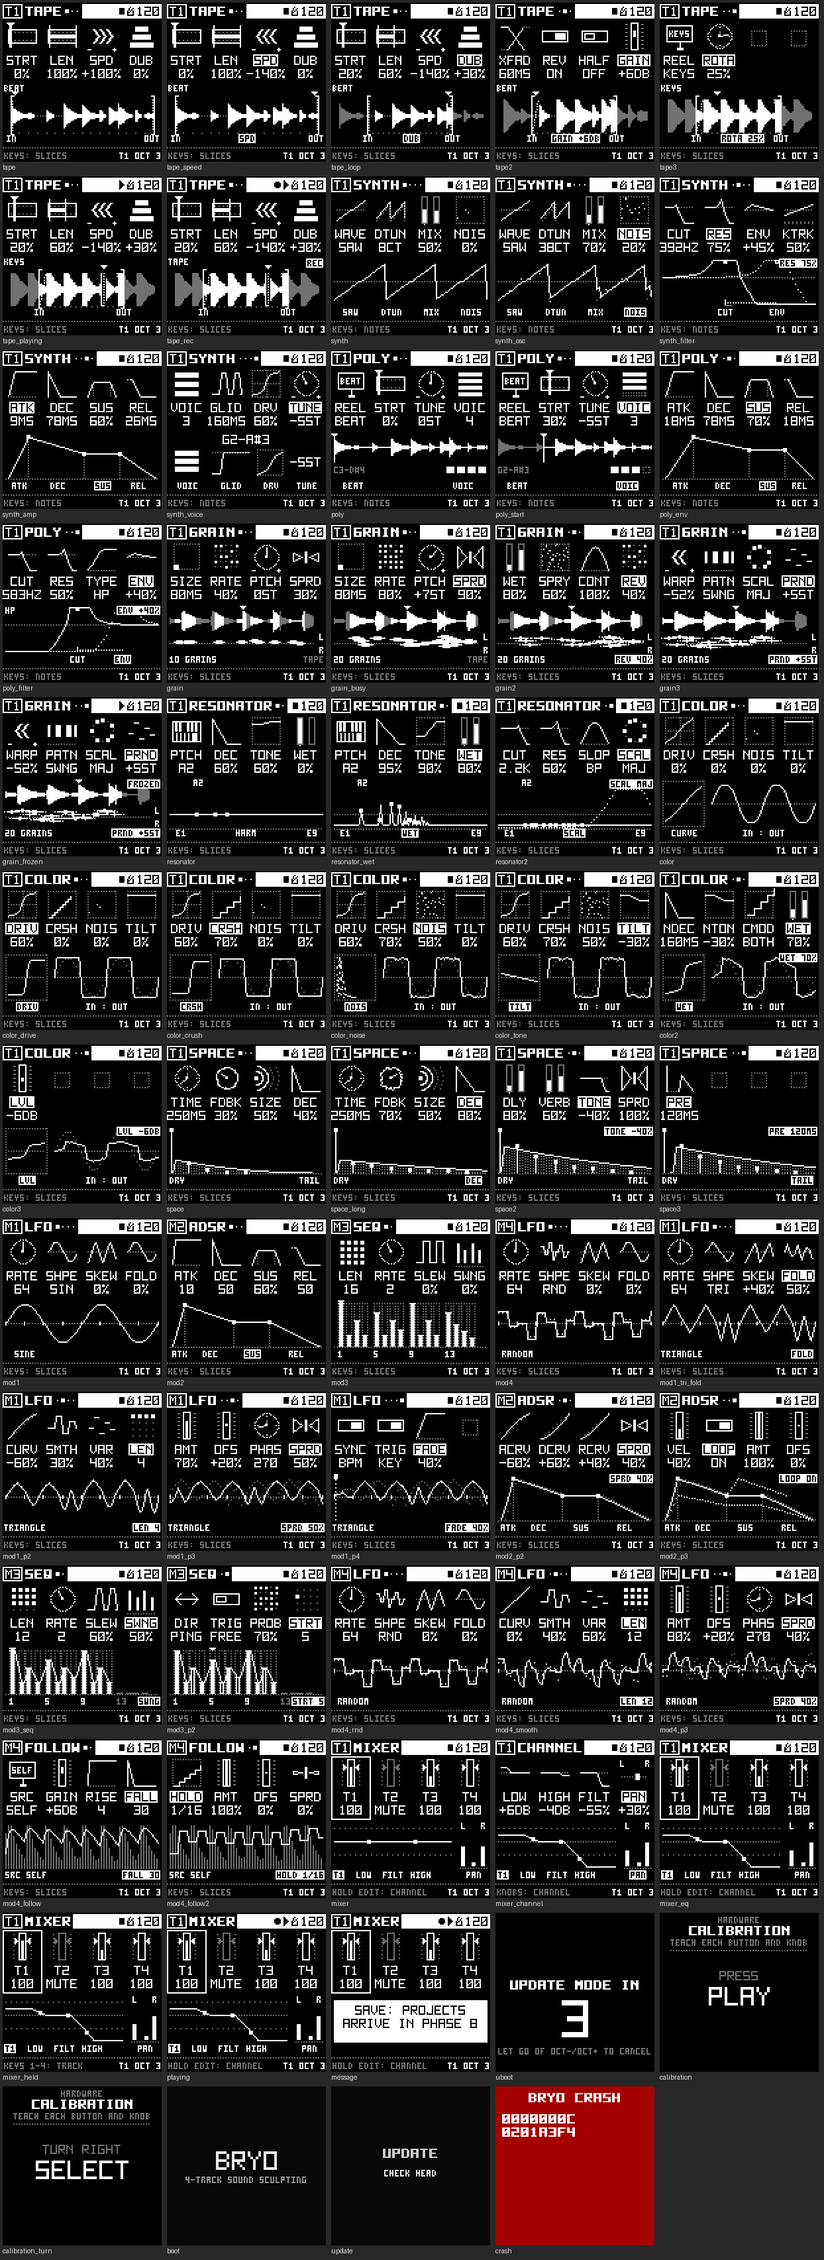
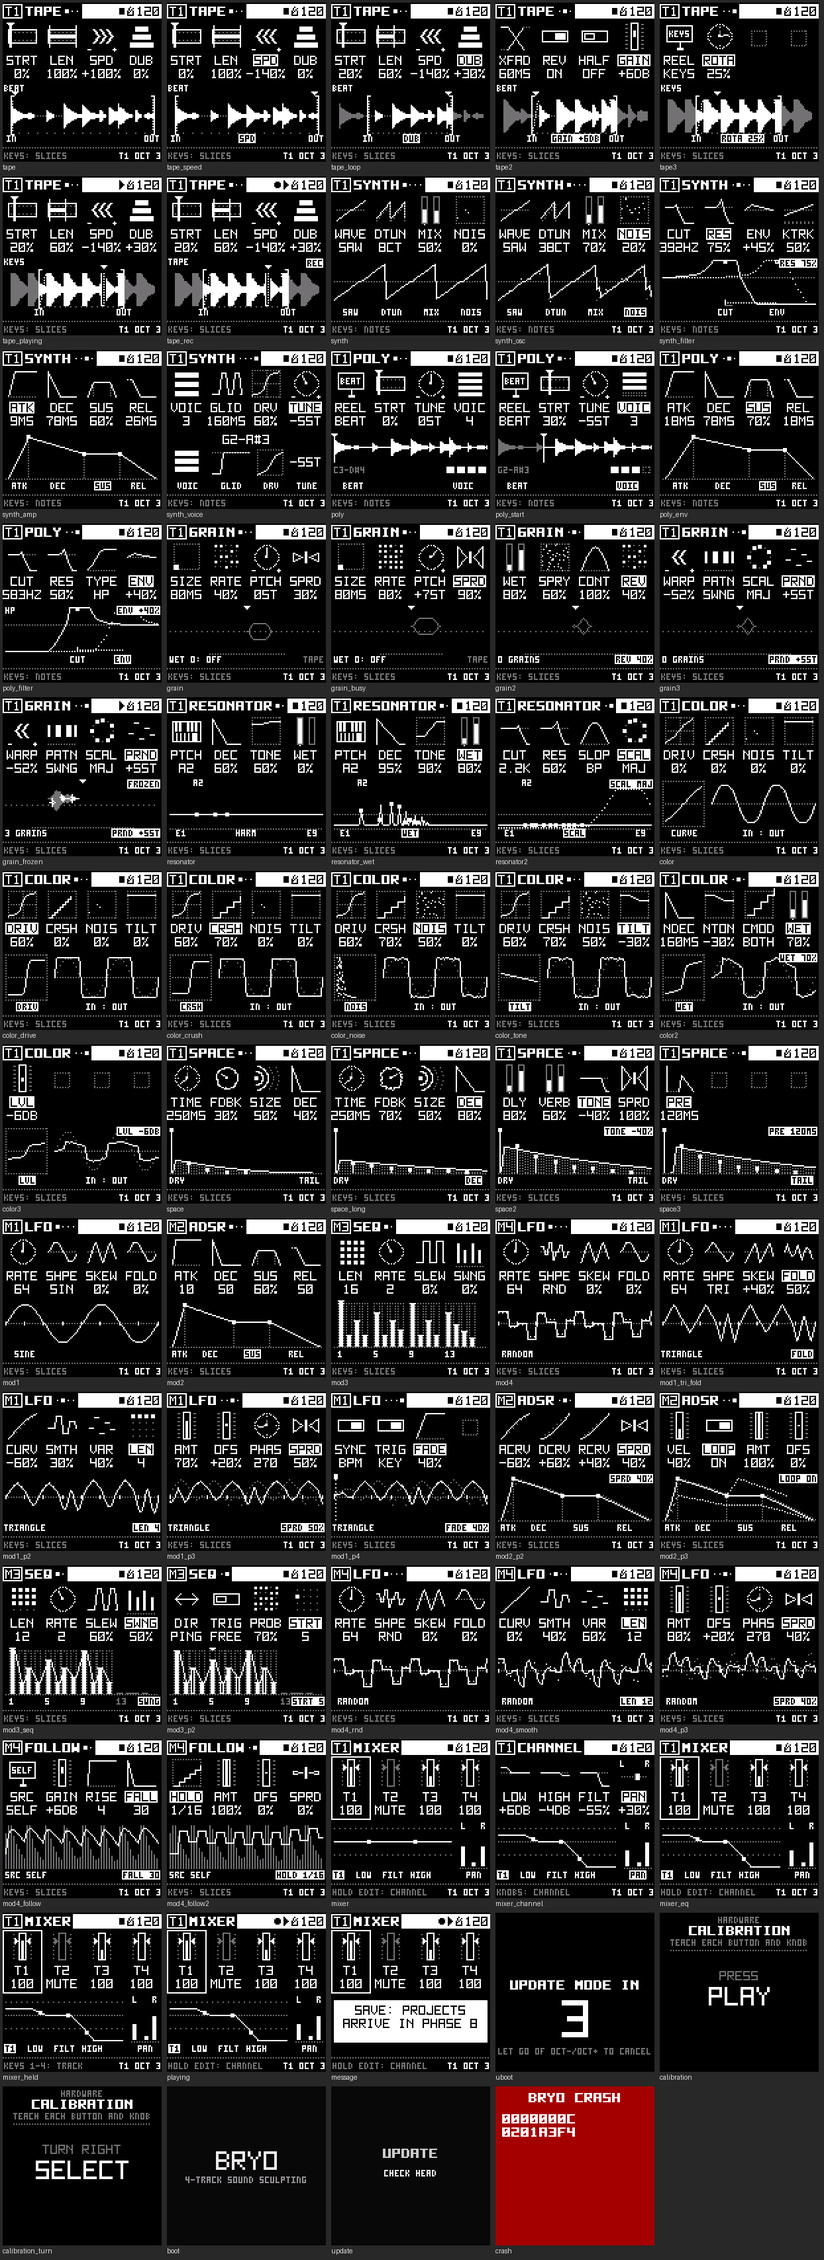
Bryo: GRAIN draws its grains, not the sample; 8 grains a track
The GRAIN picture zooms to the stretch around the cursor that grains can
reach (SPRY plus a few grains' length) instead of the whole loop window.
A grain shows only while it sounds: across is the tape it reads (slowed
grains narrower, sped-up ones wider), up and down its pitch, its height
the window swelled by the sample's level, with an arrow playhead its way
(REV right to left). With nothing sounding, a dim grain from the knobs.

The cap goes from 16 to 8 grains a track: 9.6 KB of pool instead of
19.1, and 2,820 instructions a sample at the cap instead of 4,755.

Claude-Session: https://claude.ai/code/session_011E3mkWDTWqtPtt4Lk7Lgg8

diff --git a/bryo/firmware/src/ui_viz.c b/bryo/firmware/src/ui_viz.c
@@ -11,9 +11,8 @@
  *   POLY       per page: the sound with STRT and the keys' range, the envelope, the filter with its TYPE
  *   TAPE       the whole tape's sound, large, lit inside the loop window (STRT, LEN, bracketed) with its 16 slices
  *              ticked under it; the playhead over it (stopped: where playing starts, moved by ROTA)
- *   GRAIN      the sound in TAPE's loop window, lit where grains read it (SIZE, scaled by PITCH), and one solid
- *              block per grain (RATE, placed by PATN) in a stereo lane under it (SPRD, up = left, down = right);
- *              the cursor where grains start over it, FROZEN while the 0 key holds it
+ *   GRAIN      the grains as they sound: where each reads (across), its pitch (up), its stretch of the sample
+ *              under its window with the playhead running its way; the cursor and SPRY's reach; FROZEN
  *   RESONATOR  the response over 8 octaves: peaks on PTCH's partials (harmonics, or a scale's chord tones; a node on
  *              each, the root's filled and named), as sharp as DEC makes them, kept up top by TONE, shaped by the
  *              filter before them (dotted: CUT RES SLOP), blended with the dotted dry line by WET
@@ -160,86 +159,123 @@ static void viz_tape(const int16_t *v, uint32_t f)
 }
 
 /* ------------------------------------------------------------- GRAIN --- */
+/* d, a distance along a loop of ll samples, the short way round */
+static int32_t gr_wrap(int32_t d, int32_t ll)
+{
+    while (d > ll / 2)
+        d -= ll;
+    while (d < -ll / 2)
+        d += ll;
+    return d;
+}
+
 static void viz_grain(const int16_t *v, uint32_t f)
 {
-    /* The view spans TAPE's loop window (START, LEN). RATE 0..100: 1..25 grains, placed along the loop by PATN (EVEN
-     * spaced, SWNG with the off-beats late, CLST in clusters of four, RND scattered). Each grain reads SIZE ms of the
-     * sample, times 2^(PTCH/12) (pitched up, it reads more; PRND varies that per grain): that slice of the waveform
-     * is lit, and it is the width of its block. SPRD scatters the blocks across the stereo lane under the waveform
-     * (up = left). Solid blocks: the grains as the engine schedules them, without the window shape. */
-    const int16_t *tv = tp[sys.sel].dev[DEV_SRC];
-    int32_t n = 1 + v[1] * 24 / 100, i, x, g, gw = DW - 6;            /* (L and R at the right) */
-    int32_t start = tv[0] * 10, len = tv[1] * 10, loop_ms = len * tape_ms(sys.sel) / 1000, oct = 1000, span;
-    int32_t gx[25], gy[25], mid = 11, amp = 10, lane = 28, jit = v[5] * 6 / 100, taper;
+    /* A field of the grains as they sound, not the whole sample: the stretch of TAPE's loop window around the cursor
+     * (in the middle) that grains can reach, SPRY's scatter plus a few grains' length. Across: where a grain reads
+     * (SPRY's range dotted under the field); up and down: its pitch (PTCH and its
+     * PRND, the tape's own in the middle, +-2 octaves at the edges). A grain is drawn while it sounds: the stretch of
+     * the sample it reads (wider when it reads faster, narrower slowed down), its height its window (CONT) swelled by
+     * the sample's level there, played solid and still to play dim, its playhead an arrow the way it runs (REV: right
+     * to left). Nothing sounding (stopped, or WET 0): one grain's outline at the cursor, from the knobs. */
+    grain_trk_t *G = &grain[sys.sel];
+    tape_view_t tv;
+    int32_t ls, ll, i, k, x, cx = 60, yc0 = 19, n = 0, sp, reach, gspan, fw, cur;
     char b[16];
-    for (i = 0; i < v[2]; i++) oct = oct * 1059 / 1000;               /* 2^(st/12), 1/1000 */
-    for (i = 0; i > v[2]; i--) oct = oct * 1000 / 1059;
-    span = clamp(v[0] * oct / 1000 * gw / (loop_ms > 0 ? loop_ms : 1), 1, gw / 2);
-    vz_seed = 12345u;
-    for (g = 0; g < n; g++) {
-        int32_t room = gw - span, slot = room / n, at;
-        switch (v[9]) {                                               /* PATN */
-        case 0: at = g * slot; break;                                  /* EVEN */
-        case 1: at = g * slot + (g & 1) * slot / 2; break;              /* SWNG: the off-beats half a step late */
-        case 2: at = (g / 4) * slot * 4 + (g % 4) * slot / 3; break;    /* CLST: fours, close together */
-        default: at = (int32_t)(vz_rand() % (uint32_t)room); break;    /* RND */
-        }
-        gx[g] = DX0 + clamp(at, 0, room - 1);
-        gy[g] = ((int32_t)(vz_rand() % 2001u) - 1000) * v[3] / 100;    /* -1000 (L) .. 1000 (R) */
+    tape_view(sys.sel, &tv);
+    if (!tv.len) {
+        px_text_c(0, 120, 16, PXF_3, "NOTHING ON THE TAPE", px_dim);
+        return;
     }
-    for (x = DX0; x < DX0 + gw; x++) {                                 /* the sample: dim, lit where a grain reads */
-        int32_t a = tape_peak_at(sys.sel, start + (x - DX0) * len / gw) * amp / 1000, lit = 0;
-        for (g = 0; g < n && !lit; g++)
-            lit = x >= gx[g] && x < gx[g] + span;
-        px_box(x, mid - a, 1, 2 * a + 1, lit ? px_ink : px_dim);
+    tape_window(sys.sel, tv.len, &ls, &ll);
+    cur = G->cur >> 12;
+    reach = ll * v[5] / 200;                                           /* SPRY: tape samples either way */
+    gspan = (int32_t)((uint32_t)gr_rate(v[2] * 16) * ((uint32_t)v[0] * 441u / 10u) >> 12);   /* a grain, read */
+    fw = clamp(2 * reach + 3 * gspan > 4 * gspan ? 2 * reach + 3 * gspan : 4 * gspan, 256, ll);   /* the field */
+#define GX(s) (cx + gr_wrap((s) - cur, ll) * DW / fw)                  /* a tape sample's column (cursor: 60) */
+#define GY(st16) (yc0 - (st16) * 14 / (24 * 16))                      /* a pitch's row */
+    sp = reach * DW / fw;                                              /* SPRY's reach, dots */
+    px_line(clamp(cx - sp, DX0, DX1), 36, clamp(cx + sp, DX0, DX1), 36, px_dim, 2);   /* where grains may start */
+    px_line(DX0, yc0, DX1, yc0, px_dim, 4);                            /* the tape's own pitch */
+    for (k = 0; k < (int32_t)GR_CAP; k++) {                            /* the grains sounding */
+        const grain_t *g = &G->g[k];
+        int32_t rate, span, p0, a0, b0, xa, xb, ph, yc, fr;
+        if (!((G->used >> k) & 1u) || !g->len)
+            continue;
+        n++;
+        rate = g->inc < 0 ? -g->inc : g->inc;
+        span = (int32_t)((uint32_t)rate * g->len >> 12);
+        p0 = (g->pos >> 12) - ((g->inc * (int32_t)(g->len - g->left)) >> 12);   /* (fits: |inc| < 2^15, len < 2^15) */
+        a0 = g->rev ? p0 - span : p0;
+        b0 = a0 + span;
+        xa = GX(a0);
+        xb = GX(b0);
+        if (xb <= xa)
+            xb = xa + 1;
+        ph = GX(g->pos >> 12);
+        yc = clamp(GY(g->st16), 5, 33);
+        fr = (int32_t)(g->fade * 1000u / g->len);                     /* each ramp, of the grain (1/1000) */
+        for (x = clamp(xa, DX0, DX1); x <= clamp(xb, DX0, DX1); x++) {
+            int32_t at = (x - xa) * 1000 / (xb - xa), e = 32767, s = a0 + (x - xa) * span / (xb - xa), h;
+            uint32_t blk = (uint32_t)clamp(s, 0, (int32_t)tv.len - 1) / TAPE_BLK;
+            int on = g->rev ? x >= ph : x <= ph;                       /* played */
+            if (at < fr)
+                e = GR_RAMP[at * 128 / (fr ? fr : 1)];
+            else if (1000 - at < fr)
+                e = GR_RAMP[(1000 - at) * 128 / (fr ? fr : 1)];
+            h = (2 + clamp((int32_t)tv.peak[blk] * 3, 0, 255) * 5 / 255) * e / 32767;   /* (quiet stretches: still a shape) */
+            px_box(x, yc - h, 1, 2 * h + 1, on ? px_ink : px_dim);
+        }
+        if (ph >= DX0 && ph <= DX1) {                                  /* the playhead, an arrow its way */
+            int32_t d = g->rev ? -1 : 1;
+            px_box(ph, yc - 3, 1, 7, px_ink);
+            px_dot(ph + d, yc - 1, px_ink);
+            px_dot(ph + d, yc + 1, px_ink);
+            px_dot(ph + 2 * d, yc, px_ink);
+        }
     }
-    px_line(DX0, lane, DX0 + gw, lane, px_dim, 2);                     /* the stereo lane */
-    px_text(DX1 - 2, lane - 7, PXF_3, "L", px_ink);
-    px_text(DX1 - 2, lane + 3, PXF_3, "R", px_ink);
-    /* each grain: 3 rows, its top and bottom rows cut in from the ends as CONT smooths it (square at 0);
-     * hollow when it plays backwards (REV: that share of them); SPRY as dotted whiskers, where it may land instead */
-    taper = span * v[6] / 250;
-    for (g = 0; g < n; g++) {
-        int32_t yy = lane - 1 + gy[g] * 5 / 1000, back = (g * 37 + 11) % 100 < v[7], span0 = span;
-        if (v[11]) {                                                   /* PRND: each grain's pitch, so its read, varies */
-            int32_t st = (int32_t)((g * 53u + 7u) % (uint32_t)(2 * v[11] + 1)) - v[11];
-            span = clamp(span + span * st / 24, 1, gw / 2);
+    if (!n) {                                                          /* nothing sounding: a grain from the knobs */
+        int32_t span = gspan, xa = cx, xb = GX(cur + span), yc = clamp(GY(v[2] * 16), 5, 33), fr = v[6] * 5, pyu = yc, pyd = yc;
+        if (xb <= xa + 2)
+            xb = xa + 3;
+        for (x = xa; x <= xb && x <= DX1; x++) {
+            int32_t at = (x - xa) * 1000 / (xb - xa), e = 32767, h;
+            if (at < fr)
+                e = GR_RAMP[at * 128 / (fr ? fr : 1)];
+            else if (1000 - at < fr)
+                e = GR_RAMP[(1000 - at) * 128 / (fr ? fr : 1)];
+            h = 6 * e / 32767;
+            if (x > xa) {
+                px_line(x - 1, pyu, x, yc - h, px_dim, 1);
+                px_line(x - 1, pyd, x, yc + h, px_dim, 1);
+            }
+            pyu = yc - h;
+            pyd = yc + h;
         }
-        if (back) {
-            px_line(gx[g], yy, gx[g] + span - 1, yy, px_ink, 1);
-            px_line(gx[g] + taper, yy - 1, gx[g] + span - 1 - taper, yy - 1, px_ink, 1);
-            px_line(gx[g] + taper, yy + 1, gx[g] + span - 1 - taper, yy + 1, px_ink, 1);
-            px_dot(gx[g], yy, px_bg);                                  /* (an arrow's notch: it runs right to left) */
-        } else {
-            px_box(gx[g], yy, span, 1, px_ink);
-            px_box(gx[g] + taper, yy - 1, span - 2 * taper, 1, px_ink);
-            px_box(gx[g] + taper, yy + 1, span - 2 * taper, 1, px_ink);
+        if (v[7]) {                                                    /* REV: some run backwards */
+            px_dot(xa - 1, yc - 1, px_dim);
+            px_dot(xa - 1, yc + 1, px_dim);
+            px_dot(xa - 2, yc, px_dim);
         }
-        if (jit) {
-            px_line(gx[g] - jit, yy, gx[g] - 1, yy, px_ink, 2);
-            px_line(gx[g] + span, yy, gx[g] + span - 1 + jit, yy, px_ink, 2);
-        }
-        span = span0;
     }
-    {   /* the cursor, where grains start: a triangle over the sound; FROZEN while the 0 key holds it */
-        tape_view_t tvw;
-        tape_view(sys.sel, &tvw);
-        if (tvw.len && len) {
-            int32_t cm = (int32_t)((uint32_t)(grain[sys.sel].cur >> 12) * 1000u / tvw.len), cx = DX0 + (cm - start) * gw / len;
-            if (cx >= DX0 && cx < DX0 + gw)
-                for (i = 0; i < 3; i++)
-                    px_box(cx - 2 + i, i, 5 - 2 * i, 1, px_ink);
-        }
-        if (grain_frozen)
-            px_tag(118 - px_text_w(PXF_3, "FROZEN") - 1, 0, PXF_3, "FROZEN", px_ink, px_bg);
+    for (i = 0; i < 3; i++)                                            /* the cursor, where grains start */
+        if (cx >= DX0 && cx <= DX1)
+            px_box(cx - 2 + i, i, 5 - 2 * i, 1, px_ink);
+    if (grain_frozen)
+        px_tag(118 - px_text_w(PXF_3, "FROZEN") - 1, 0, PXF_3, "FROZEN", px_ink, px_bg);
+#undef GX
+#undef GY
+    if (!v[4])
+        str_cpy(b, "WET 0: OFF", sizeof b);
+    else {
+        fmt_int(b, n);
+        str_cpy(b + str_len(b), n == 1 ? " GRAIN" : " GRAINS", 8);
     }
-    fmt_int(b, n);
-    str_cpy(b + str_len(b), " GRAINS", 8);
-    if (f == 1u)
+    if (f == 1u || f == 4u)
         px_tag(1, DLBL - 1, PXF_3, b, px_ink, px_bg);
     else
         px_text(2, DLBL, PXF_3, b, px_ink);
-    if (f >= 4u && f < 12u)
+    if (f >= 4u && f < 12u && f != 4u)
         vz_ktag(118, DLBL - 1, &DEV_P[DEV_GRAIN][f], v[f]);
     else
         px_text(118 - px_text_w(PXF_3, tape_name(sys.sel)), DLBL, PXF_3, tape_name(sys.sel), px_dim);   /* its source */
@@ -1040,8 +1076,14 @@ static uint32_t viz_sig(void)
     if (ui.kind == FOCUS_SLOT && tp[sys.sel].engine[ui.slot] == ME_FOLLOW)
         for (t = 0; t < NTRK; t++)
             h = (h ^ tape_ver[t]) * 16777619u;
-    if (ui.kind == FOCUS_DEV && ui.dev == DEV_GRAIN)                   /* GRAIN's cursor (to the dot), FROZEN */
-        h = (h ^ (uint32_t)((grain[sys.sel].cur >> 12) / 256 * 2 + grain_frozen)) * 16777619u;
+    if (ui.kind == FOCUS_DEV && ui.dev == DEV_GRAIN) {                 /* GRAIN: its cursor, FROZEN, the grains */
+        const grain_trk_t *G = &grain[sys.sel];
+        h = (h ^ (uint32_t)((G->cur >> 12) / 256 * 2 + grain_frozen)) * 16777619u;
+        for (k = 0; k < GR_CAP; k++)
+            if ((G->used >> k) & 1u)
+                h = (h ^ (uint32_t)(G->g[k].pos >> 18) ^ k << 24) * 16777619u;
+        h = (h ^ G->used) * 16777619u;
+    }
     if (ui.kind == FOCUS_DEV && ui.dev == DEV_GRAIN)                   /* GRAIN draws TAPE's loop window too */
         h = (h ^ (uint32_t)(tp[sys.sel].dev[DEV_SRC][0] << 8 | tp[sys.sel].dev[DEV_SRC][1])) * 16777619u;
     return h + (ui.kind == FOCUS_SLOT ? tp[sys.sel].engine[ui.slot] * 65537u : 0u);

diff --git a/bryo/firmware/src/grain.c b/bryo/firmware/src/grain.c
@@ -23,11 +23,11 @@
  * reverse grain refills its window backwards (up to 256 decodes per 64 samples). A grain starting past the tape's end
  * reads silence.
  *
- * Load: at most GR_CAP grains sound per track; a grain due while all of them sound is skipped. The audio ISR's
+ * Load: at most GR_CAP (8) grains sound per track; a grain due while all of them sound is skipped. The audio ISR's
  * shedding (chain_shed) lowers that cap for every track, two at a time down to 4, and it comes back one a second.
  * Audio ISR only; the main loop writes the knobs. */
 
-#define GR_CAP 16u                   /* grains sounding at once per track, at most */
+#define GR_CAP 8u                    /* grains sounding at once per track, at most */
 #define GR_WIN 128u                  /* a grain's decoded window, tape samples (a reverse refill re-decodes from its
                                       * block's start: the wider the window, the rarer) */
 
@@ -169,6 +169,12 @@ static int32_t gr_pitch(grain_trk_t *G, const int16_t *p)
     return best;
 }
 
+/* a grain's step for pitch st16 (1/16 semitone), Q12 tape samples per output sample: 2048 at the tape's own pitch */
+static int32_t gr_rate(int32_t st16)
+{
+    return (int32_t)(pitch_inc((uint32_t)clamp(60 * 16 + st16, 0, 2047)) / (pitch_inc(60u * 16u) >> 11));
+}
+
 /* the gap before the next grain, output samples: RATE 0..100 -> 1..80 grains a second, in PATN's rhythm */
 static int32_t gr_gap(grain_trk_t *G, const int16_t *p)
 {
@@ -196,7 +202,7 @@ static void gr_start(uint32_t t, grain_trk_t *G, const int16_t *p, const tape_vi
     at = (G->cur >> 12) + (sp ? (int32_t)(gr_rnd(G) % (uint32_t)(2 * sp + 1)) - sp : 0);
     at = ls + ((at - ls) % ll + ll) % ll;
     g->st16 = (int16_t)gr_pitch(G, p);
-    rate = (int32_t)(pitch_inc((uint32_t)clamp(60 * 16 + g->st16, 0, 2047)) / (pitch_inc(60u * 16u) >> 11));
+    rate = gr_rate(g->st16);
     g->rev = (uint8_t)((int32_t)(gr_rnd(G) % 100u) < p[7]);
     g->len = (uint32_t)p[0] * 441u / 10u;              /* SIZE ms -> output samples */
     g->fade = (uint32_t)p[6] * g->len / 200u;          /* CONT: the ramps, up to half the grain each */

diff --git a/bryo/tests/bryo_host.c b/bryo/tests/bryo_host.c
@@ -1722,17 +1722,17 @@ static void test_grain(void)
         maxc = grain_count(0) > maxc ? grain_count(0) : maxc;
     }
     render(NB, s);
-    check("RATE 100, SIZE 500: grains up to the cap of 16, never more, under full scale",
+    check("RATE 100, SIZE 500: grains up to the cap of 8, never more, under full scale",
           maxc == GR_CAP && peak_of(s, NB * CTL) <= 32767);
     grain_shed();
     for (i = 0, maxc = 0; i < 1300u; i++) {
         render(1, 0);
         maxc = grain_count(0) > maxc ? grain_count(0) : maxc;
     }
-    check("shedding lowers the cap (16 -> 14): the grains follow it down", grain_cap == 14u && maxc <= 16u &&
-          grain_count(0) <= 14u);
+    check("shedding lowers the cap (8 -> 6): the grains follow it down", grain_cap == 6u && maxc <= 8u &&
+          grain_count(0) <= 6u);
     render(200, 0);
-    check("..and a second without shedding gives one back", grain_cap == 15u);
+    check("..and a second without shedding gives one back", grain_cap == 7u);
     grain_cap = GR_CAP;
     p[1] = 40;
     p[0] = 80;

diff --git a/bryo/docs/bryo-architecture.md b/bryo/docs/bryo-architecture.md
@@ -151,7 +151,7 @@ Why:
 | SPACE delay | 65,536 | 4 tracks × 8,192 samples × 2 B (0.37 s at 22.05 kHz, or 0.74 s at half speed) |
 | SPACE reverb | 40,000 | 4 small reverbs, Felucca's ROOM structure run at 22.05 kHz |
 | Screen canvas | 5,460 (main RAM) | 2 bits a dot (1.6 KB) and two 4-row line buffers (3.8 KB); see "The screen as dots" |
-| GRAIN | 19,552 | 4 tracks × 16 grains × 305 B (a 128-sample decoded window each; see "GRAIN, as built") |
+| GRAIN | 9,824 | 4 tracks × 8 grains × 305 B (a 128-sample decoded window each; see "GRAIN, as built") |
 | USB audio in | 16,384 | ring buffer: 4,096 stereo frames × 4 B (93 ms) for drift and jitter |
 | SYNTH | 576 | 4 tracks × 3 voices of oscillator and filter state (.bss) |
 | POLY | 8,288 | 4 tracks × 4 voices × a 256-sample block reader (pool), plus 448 B of voice state (.bss) |
@@ -180,7 +180,7 @@ with its mixes. My target for all four tracks, everything on, is **at most 2,000
 | Stage, per track | Estimate | Notes |
 | --- | ---: | --- |
 | TAPE read | 20 | ADPCM decode at 22.05 kHz, linear interpolation to 44.1 kHz |
-| GRAIN | 240 | 16 sounding grains × about 15 (window table, interpolation, pan) |
+| GRAIN | 240 | 8 sounding grains × about 30 (decoding, window ramp, interpolation, pan; see "GRAIN, as built") |
 | RESONATOR | 60 | 4 strings |
 | COLOR | 30 | drive table, crush, follower plus noise |
 | SPACE | 80 | delay plus reverb at 22.05 kHz |
@@ -684,7 +684,7 @@ mono (the two sides' average).
 **Reading without a copy.** Each grain decodes the ADPCM itself into a 128-sample window, starting from the stored
 decoder state of the window's block. A forward grain slides its window and decodes each tape sample once. A
 backward grain re-decodes from its block's start at each refill, which is why the window is 128 samples rather
-than 64: half as many refills. 64 grains in all take 19.1 KB of the pool (it now holds 241.6 KB of 336).
+than 64: half as many refills. 32 grains in all take 9.6 KB of the pool (it now holds about 231.8 KB of 336).
 
 **Cost, measured** (instructions per output sample for the whole chain, four tracks, the host's 64-bit build under
 callgrind; a ballpark for the FM-1, not its cycles):
@@ -693,17 +693,32 @@ callgrind; a ballpark for the FM-1, not its cycles):
 | --- | ---: |
 | GRAIN off (tapes only) | 823 |
 | WET 100 at the defaults (about 2 grains sounding a track) | 1,149 |
-| WET 100, RATE 100, SIZE 500: 16 grains a track, the cap | 4,755 |
-| the same, every grain backwards | 6,099 |
+| WET 100, RATE 100, SIZE 500: 8 grains a track, the cap | 2,820 |
+| the same, every grain backwards | 3,521 |
 
-The first version cost 9,760 at the cap. A forward grain re-decoded its whole block every time it left its window,
+The first version cost 9,760 with a cap of 16. A forward grain re-decoded its whole block every time it left its window,
 and the window's shape was a table read per sample. Now the window slides forward, the envelope is taken once a
-block and ramped, and the grain's state sits in locals for the block. The rest is the decoding itself: 64 grains read
-32 tape samples per output sample between them.
+block and ramped, and the grain's state sits in locals for the block. The rest is the decoding itself: 32 grains read
+16 tape samples per output sample between them.
+
+**Eight a track, not sixteen.** I started at 16 and halved it. Past about eight overlapping grains the texture
+doesn't change much: the 1 / sqrt(overlap) level keeps it at the same loudness and it just smears. Halving cost and
+memory buys room for RESONATOR, COLOR and SPACE, and eight grains are few enough to draw one by one.
 
 **Shedding** takes grains first: two off the cap for every track (down to 4), one back after a second without
 shedding. A grain due while all the allowed ones sound is skipped, not stolen, so nothing cuts off mid-grain. Whether
-16 a track is the right cap needs the FM-1: the table above is the case where it matters.
+8 a track holds on the FM-1 needs the hardware: the table above is the case where it matters.
+
+**The picture shows grains, not the sample.** My first picture drew the whole loop window with every grain on it,
+and at the scale of a whole reel an 80 ms grain is a dot or two wide. Now the field is the stretch the grains can
+reach, zoomed around the cursor (the triangle at the top): SPRY's scatter either way plus a few grains' length,
+never less than 256 tape samples. SPRY's reach is dotted under it. Across is where a grain reads; up and down is its
+pitch, with the tape's own pitch dotted through the middle and two octaves to each edge, so PTCH, PRND and SCAL move
+grains up and down. A grain shows up only while it sounds. It covers the tape it reads, so a grain slowed down by
+PTCH is narrower and a sped-up one wider. Its height is its window (CONT) swelled by the sample's level, the played
+part is solid and the rest is dim, and its playhead is an arrow pointing the way it runs (REV: right to left). With
+nothing sounding (stopped, or WET 0), a dim outline of one grain from the knobs sits at the cursor, so turning SIZE,
+PTCH or CONT still shows something.
 
 **Tests** (`test_grain`): a grain's decoder against the tape's reader, both ways, over block boundaries; one grain's
 output sample for sample; pitch inside a grain (440.2 Hz at PTCH 0, 880.2 at +12, 440.2 backwards); WET 0 changes
